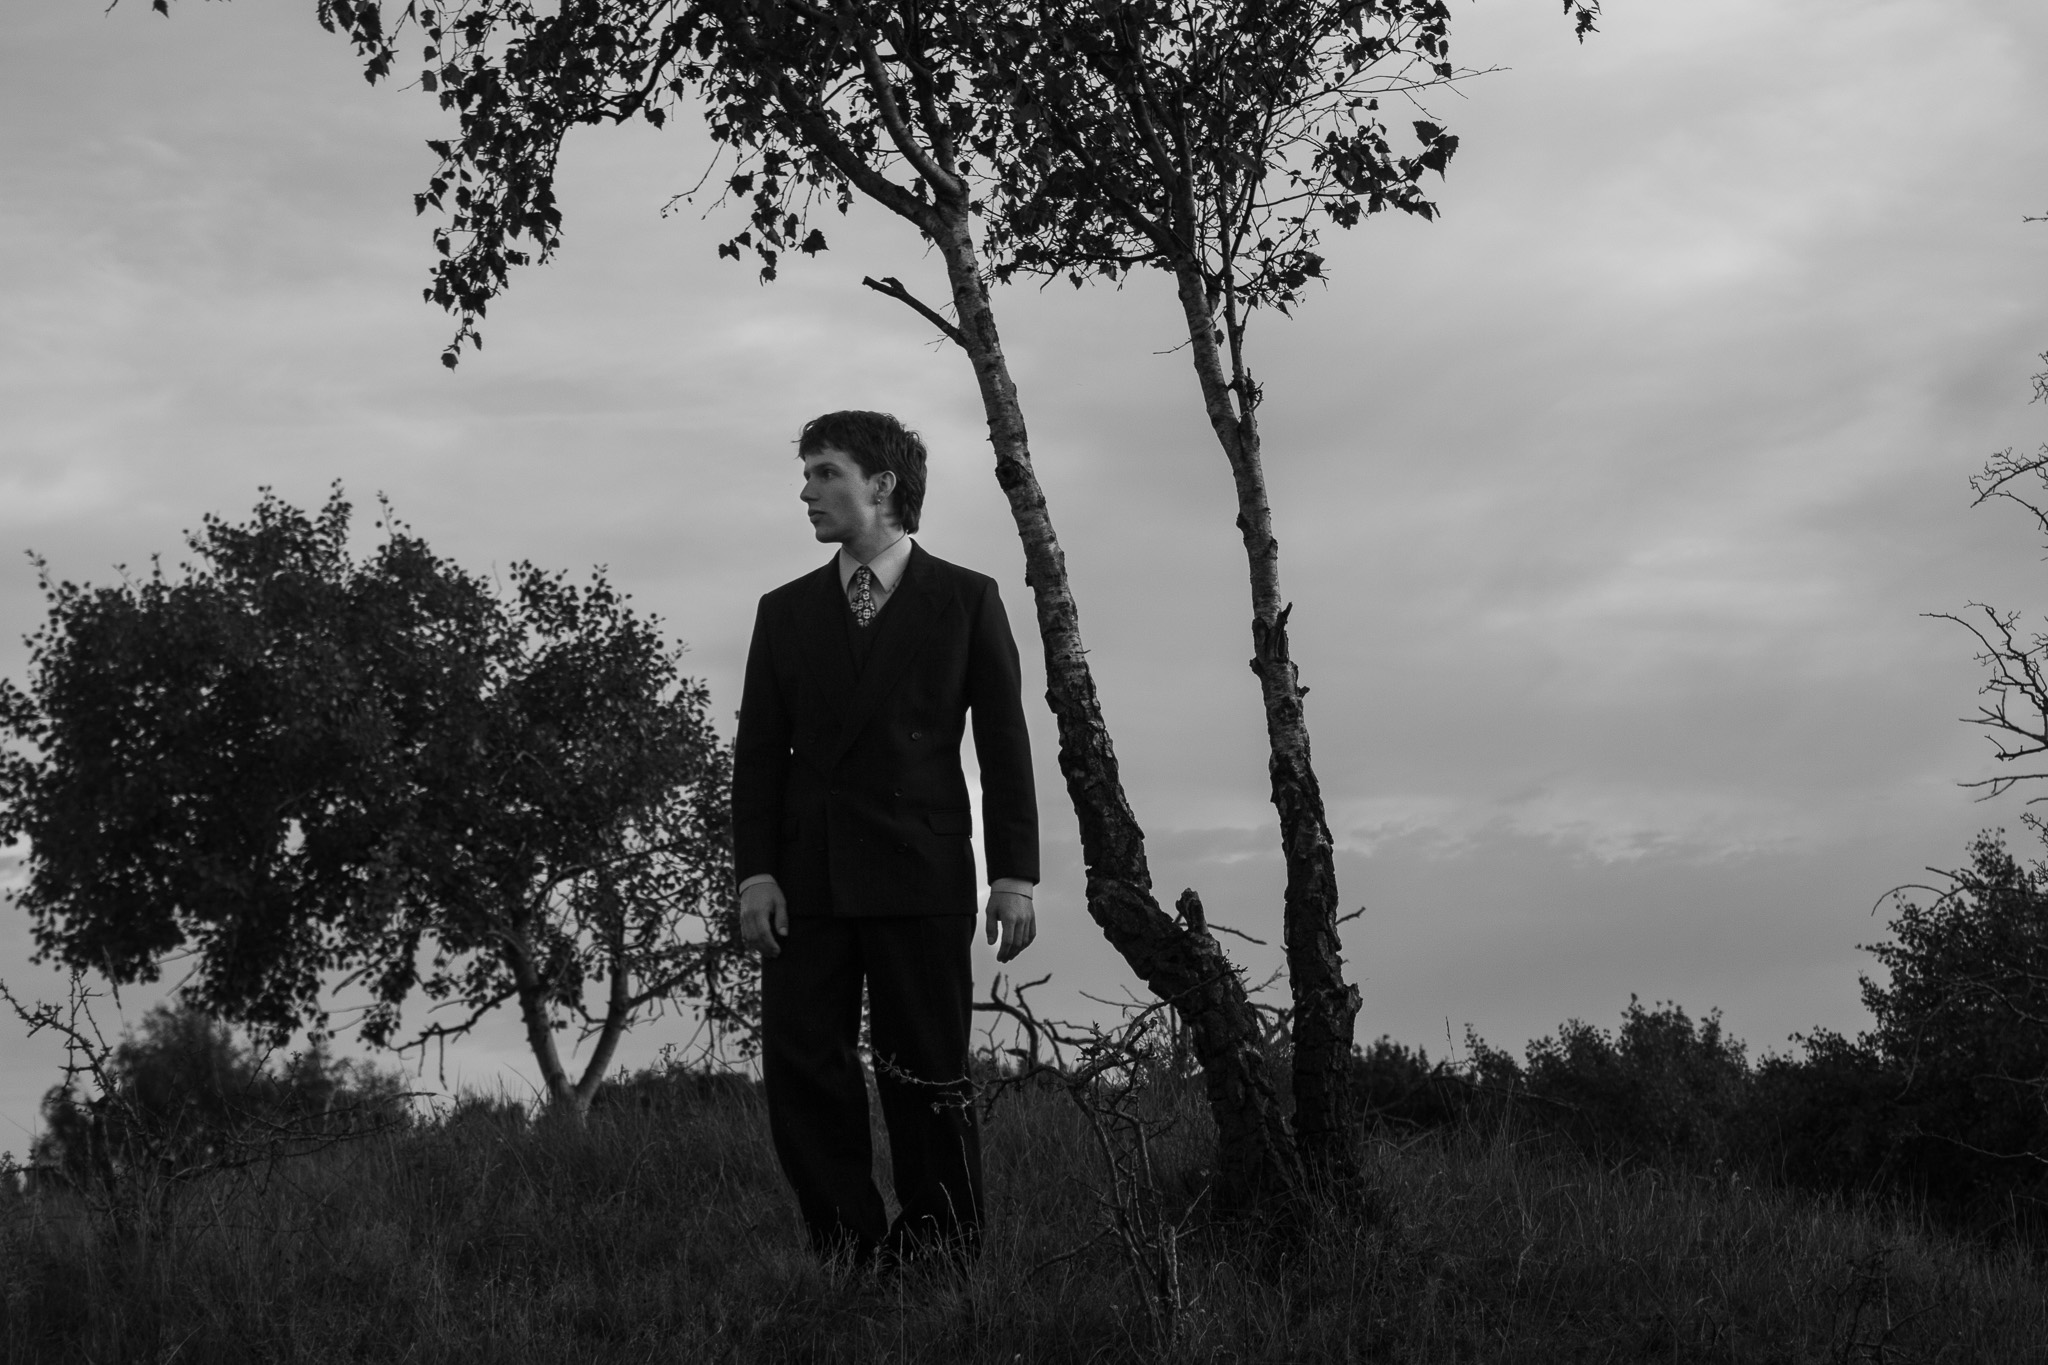
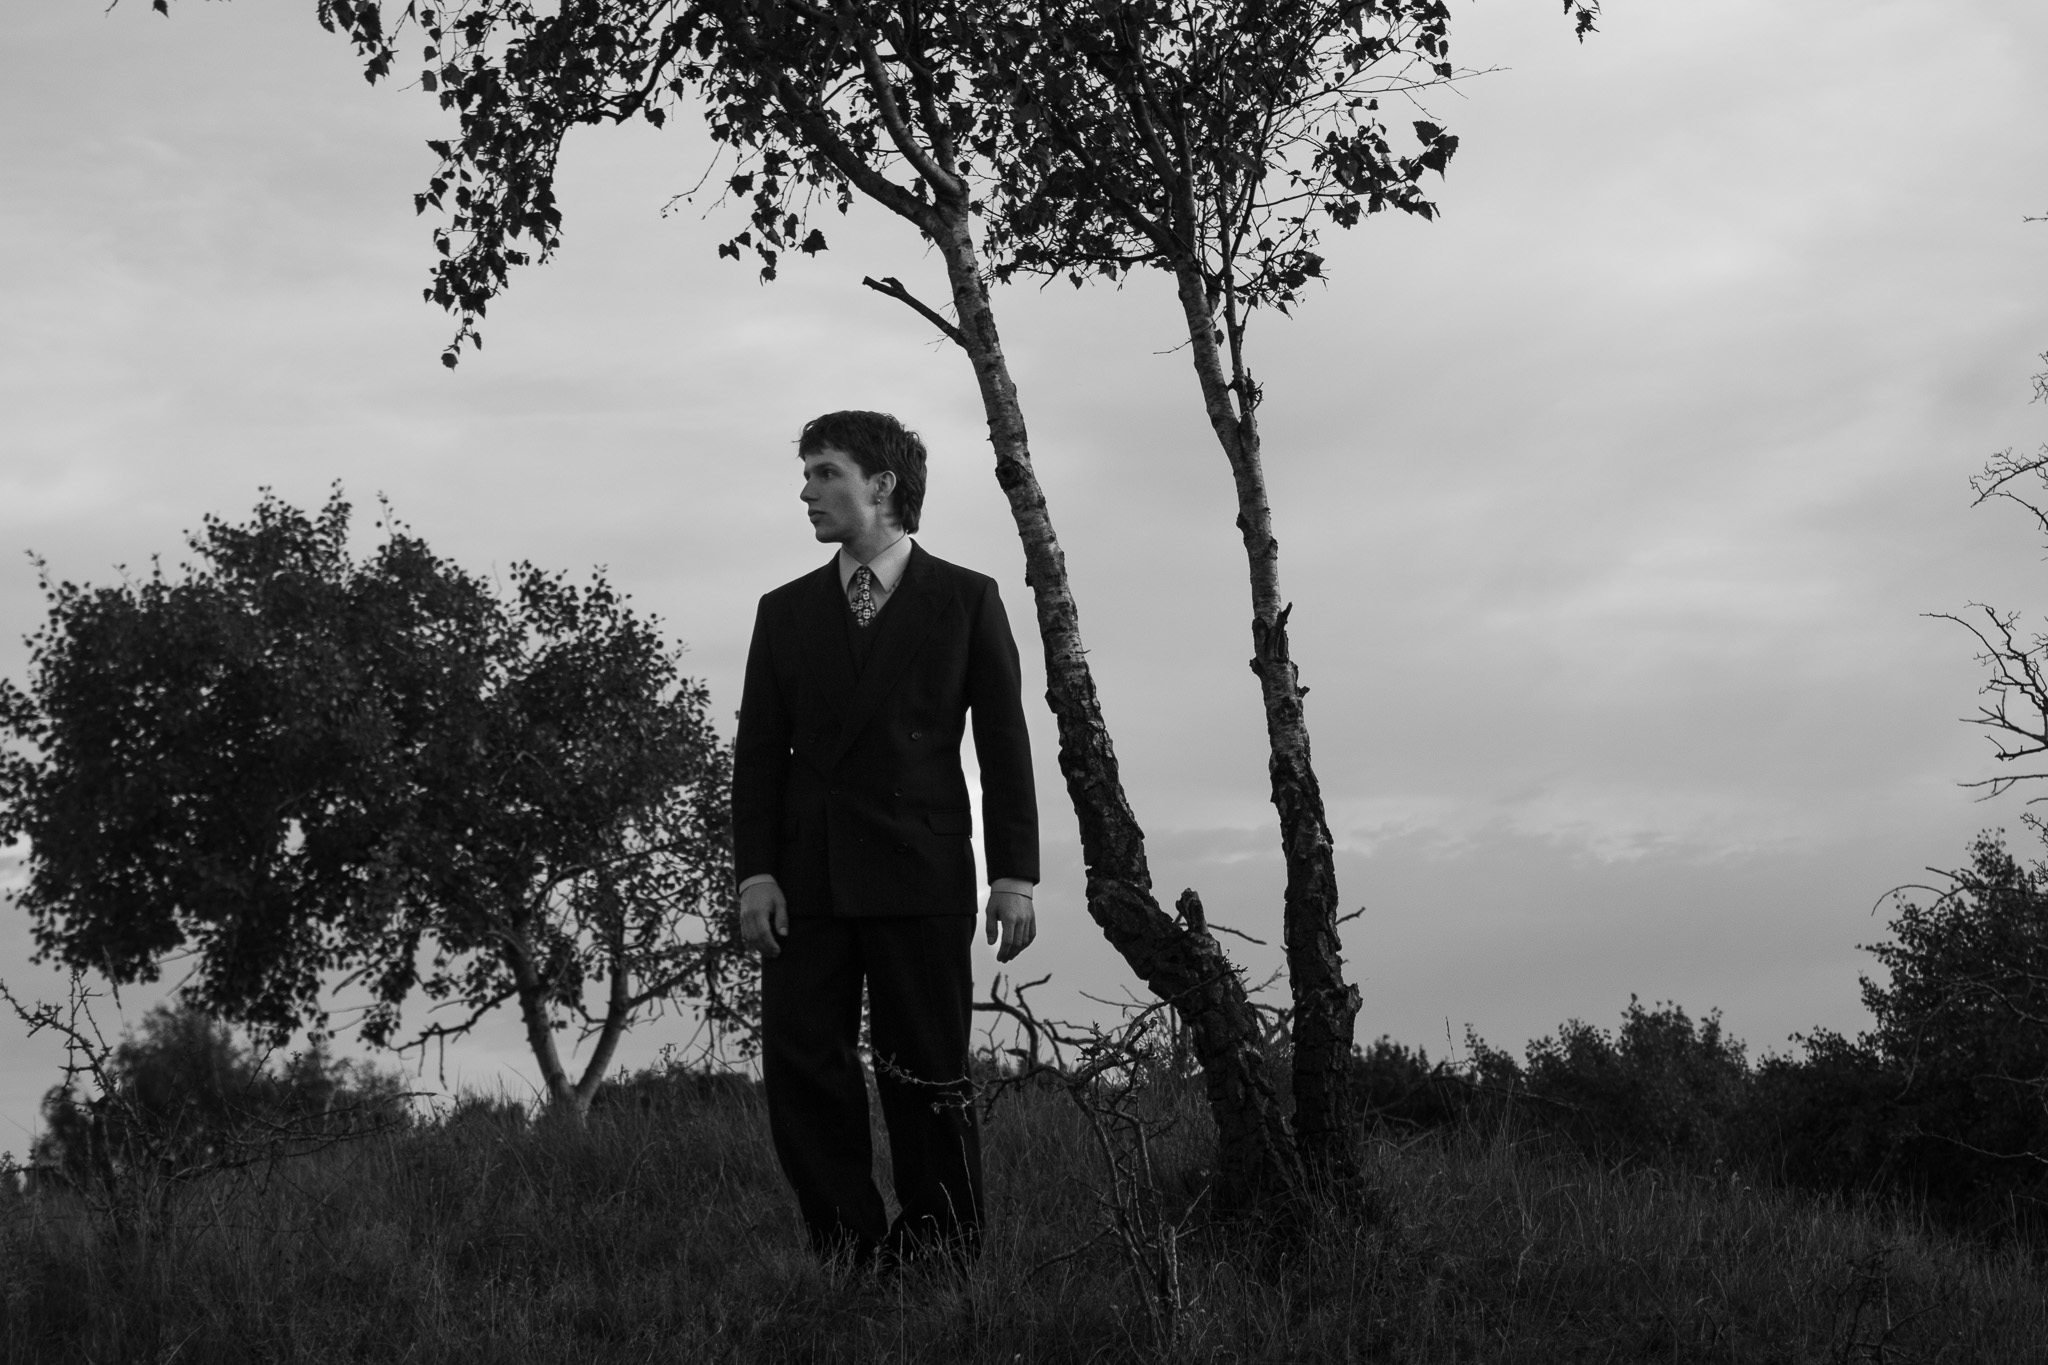
019

diff --git a/Visual Media.html b/Visual Media.html
@@ -32,7 +32,7 @@
             </div>
             <div class="object obj2 image-placeholder" draggable="false">
                 <img src="images/Tape02.png" alt="Piece of tape" draggable="false" class="tape">
-                <img src="images/Miquel/IMG_2373.jpg" alt="Placeholder image" draggable="false" class="image">
+                <img src="images/Miquel/IMG_2370.jpg" alt="Placeholder image" draggable="false" class="image">
             </div>
             <div class="object obj3 image-placeholder" draggable="false">
                 <img src="images/Tape03.png" alt="Piece of tape" draggable="false" class="tape">
